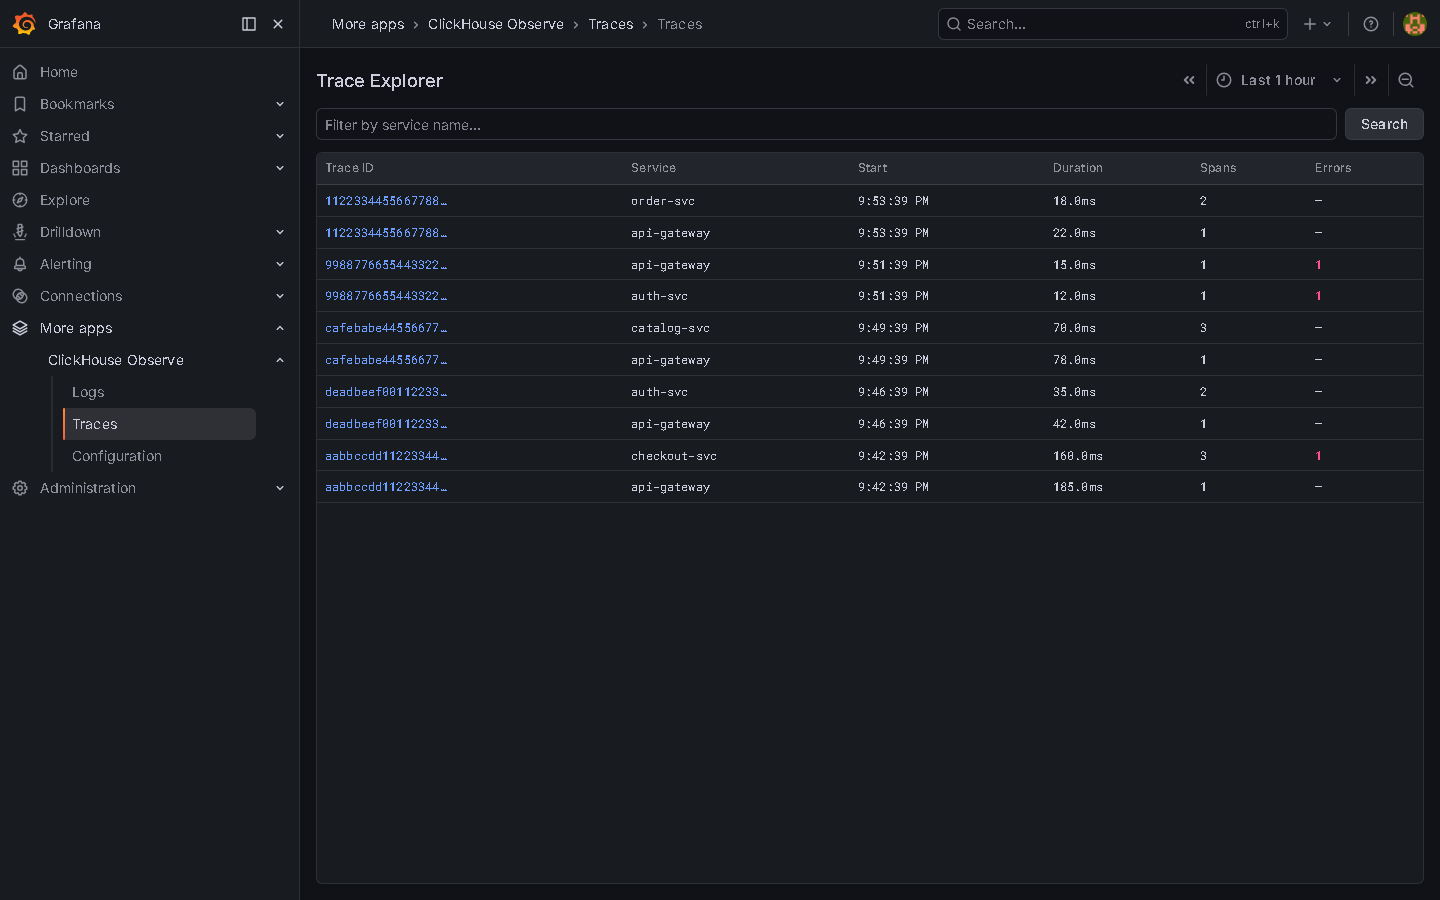
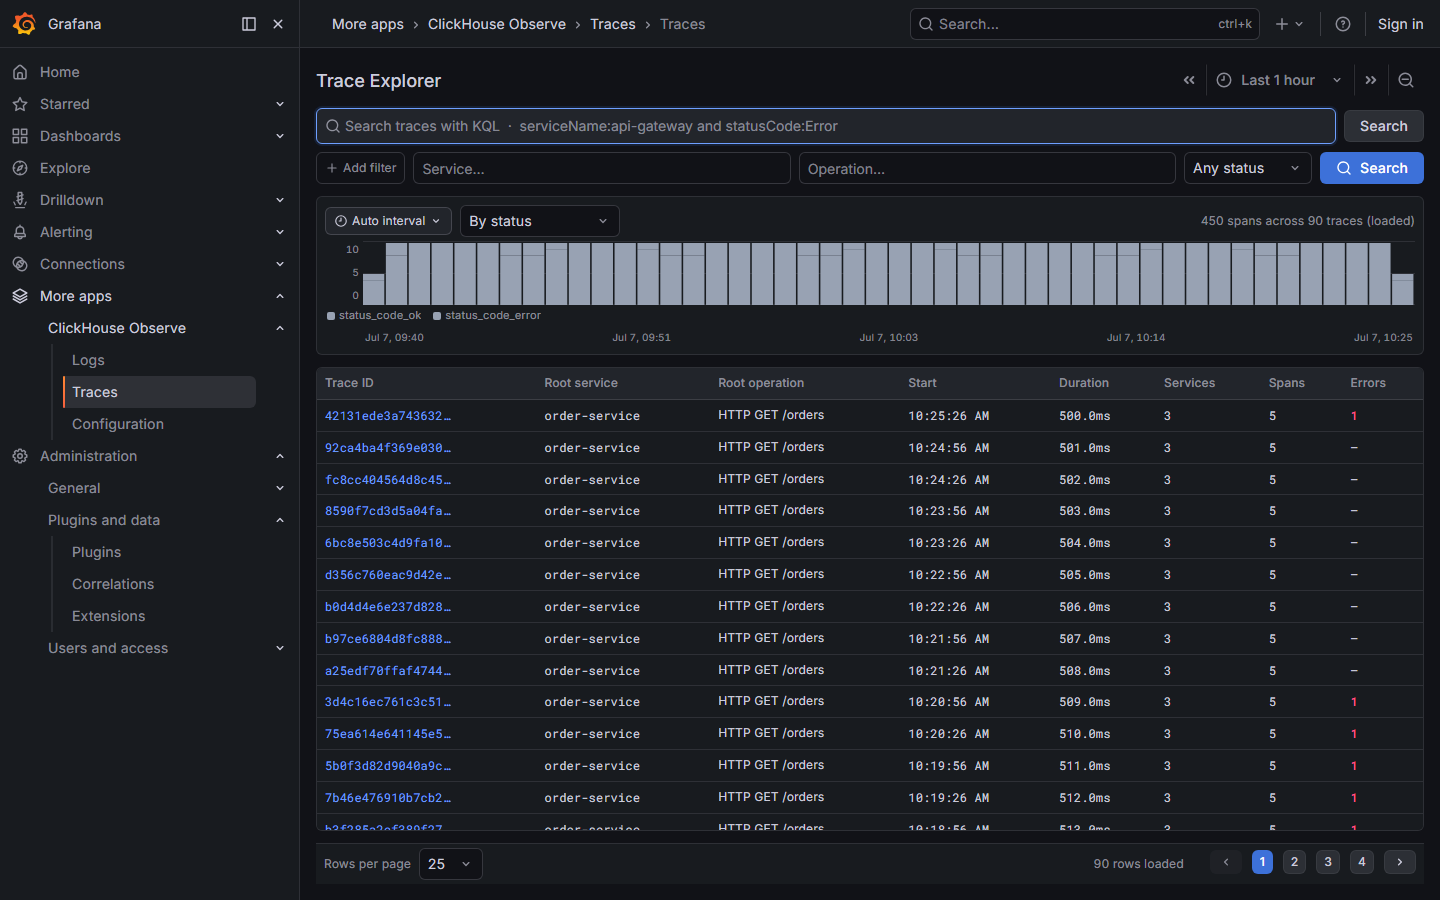
TEST MESSAGE

diff --git a/scripts/take-screenshots.ts b/scripts/take-screenshots.ts
@@ -1,0 +1,120 @@
+/**
+ * Retake the three README screenshots against a live docker-compose stack.
+ * Prereqs: npm run server (or docker compose up -d), a ClickHouse datasource
+ * already added in Grafana, seed data loaded.
+ *
+ * Usage: GRAFANA_URL=http://localhost:3000 npx ts-node --transpile-only scripts/take-screenshots.ts
+ */
+import path from 'path';
+import { chromium } from '@playwright/test';
+
+const GRAFANA_URL = process.env.GRAFANA_URL ?? 'http://localhost:3000';
+const PLUGIN_ID = 'poortuna-clickhouse-observe-app';
+const REPO_ROOT = path.resolve(__dirname, '..');
+const IMG_DIR = path.join(REPO_ROOT, 'src', 'img');
+
+const beat = (ms = 500) => new Promise((r) => setTimeout(r, ms));
+
+async function run() {
+  const browser = await chromium.launch({ headless: true });
+  const context = await browser.newContext({ viewport: { width: 1440, height: 900 } });
+  const page = await context.newPage();
+
+  // ── Configuration page ──────────────────────────────────────────────────
+  await page.goto(`${GRAFANA_URL}/plugins/${PLUGIN_ID}?page=configuration`, {
+    waitUntil: 'networkidle',
+    timeout: 25_000,
+  });
+  const alreadyConfigured = await page.getByText('Production OTel').count();
+  if (!alreadyConfigured) {
+    await page.getByRole('button', { name: 'Add view' }).click();
+    await beat(300);
+
+    await page.getByPlaceholder('My logs view').fill('Production OTel');
+    await beat(200);
+
+    // ClickHouse datasource select (react-select placeholder intercepts pointer events)
+    await page.getByText('Select datasource…').click({ force: true });
+    await beat(300);
+    await page.locator('[role="option"]').first().click();
+    await beat(300);
+
+    await page.getByPlaceholder('default').fill('default');
+    await page.getByPlaceholder('otel_logs').fill('otel_logs');
+    await page.getByPlaceholder('otel_traces').fill('otel_traces');
+    await beat(200);
+
+    await page.getByRole('button', { name: /Apply OTel preset/i }).click();
+    await beat(500);
+
+    await page.getByText('Shared Data Views').scrollIntoViewIfNeeded();
+    await beat(300);
+    await page.screenshot({ path: path.join(IMG_DIR, 'screenshot-config.png'), fullPage: false });
+
+    await page.getByRole('button', { name: /Save configuration/i }).click();
+    await page.waitForSelector('text=Configuration saved', { timeout: 8_000 }).catch(() => {});
+    await page.waitForLoadState('networkidle', { timeout: 15_000 }).catch(() => {});
+    await beat(1_500);
+  } else {
+    await page.getByText('Production OTel').first().click();
+    await beat(300);
+    await page.getByText('Shared Data Views').scrollIntoViewIfNeeded();
+    await beat(300);
+    await page.screenshot({ path: path.join(IMG_DIR, 'screenshot-config.png'), fullPage: false });
+  }
+
+  // ── Logs Explorer ────────────────────────────────────────────────────────
+  // A leftover saved-search default doesn't match our seeded OTel columns/time
+  // window, so widen the time range and clear the KQL filter before shooting.
+  await page.goto(`${GRAFANA_URL}/a/${PLUGIN_ID}/logs?from=now-6h&to=now`, {
+    waitUntil: 'networkidle',
+    timeout: 25_000,
+  });
+  try {
+    const clearBtn = page.getByTitle('Clear search');
+    if (await clearBtn.count()) {
+      await clearBtn.click();
+    }
+    await page.waitForSelector('table tbody tr', { timeout: 20_000 });
+    await page.waitForSelector('svg', { timeout: 10_000 });
+    await beat(1_500);
+    await page.screenshot({ path: path.join(IMG_DIR, 'screenshot-logs.png'), fullPage: false });
+  } catch (e) {
+    await page.screenshot({ path: path.join(IMG_DIR, 'DEBUG-logs.png'), fullPage: true });
+    console.error('LOGS PAGE BODY TEXT:', (await page.textContent('body'))?.slice(0, 2000));
+    throw e;
+  }
+
+  // ── Trace Explorer ───────────────────────────────────────────────────────
+  await page.goto(`${GRAFANA_URL}/a/${PLUGIN_ID}/traces?from=now-6h&to=now`, {
+    waitUntil: 'networkidle',
+    timeout: 25_000,
+  });
+  try {
+    const traceClearBtn = page.getByTitle('Clear search');
+    if (await traceClearBtn.count()) {
+      await traceClearBtn.click();
+    } else {
+      const traceSearch = page.getByPlaceholder(/Search traces with KQL/);
+      await traceSearch.click();
+      await traceSearch.fill('');
+      await page.keyboard.press('Enter');
+    }
+    await beat(500);
+    await page.waitForSelector('table tbody tr', { timeout: 20_000 });
+    await beat(1_500);
+    await page.screenshot({ path: path.join(IMG_DIR, 'screenshot-traces.png'), fullPage: false });
+  } catch (e) {
+    await page.screenshot({ path: path.join(IMG_DIR, 'DEBUG-traces.png'), fullPage: true });
+    console.error('TRACES PAGE BODY TEXT:', (await page.textContent('body'))?.slice(0, 2000));
+    throw e;
+  }
+
+  await browser.close();
+  console.log('Screenshots saved to', IMG_DIR);
+}
+
+run().catch((err) => {
+  console.error('Failed:', err);
+  process.exit(1);
+});

diff --git a/CHANGELOG.md b/CHANGELOG.md
@@ -10,6 +10,23 @@ Versions track the plugin's release history. `Unreleased` collects commits not y
 
 ---
 
+## [0.2.13] — 2026-07-07
+
+### Fixed
+
+- **Nav links broken on Grafana < 10.3 (and some airgapped installs).** `plugin.json` used the
+  `%PLUGIN_ID%` template placeholder in `includes[].path`; that substitution requires a Grafana
+  version newer than this plugin's declared `>=10.0.0` minimum, so older instances rendered the
+  literal string (`/a/%PLUGIN_ID%/logs`) instead of a working URL. Paths now hardcode the plugin
+  ID directly.
+
+### Changed
+
+- Retook the three README screenshots (Logs Explorer, Trace Explorer, Configuration) against
+  live seeded data.
+
+---
+
 ## [0.2.12] — 2026-07-07
 
 ### Changed
